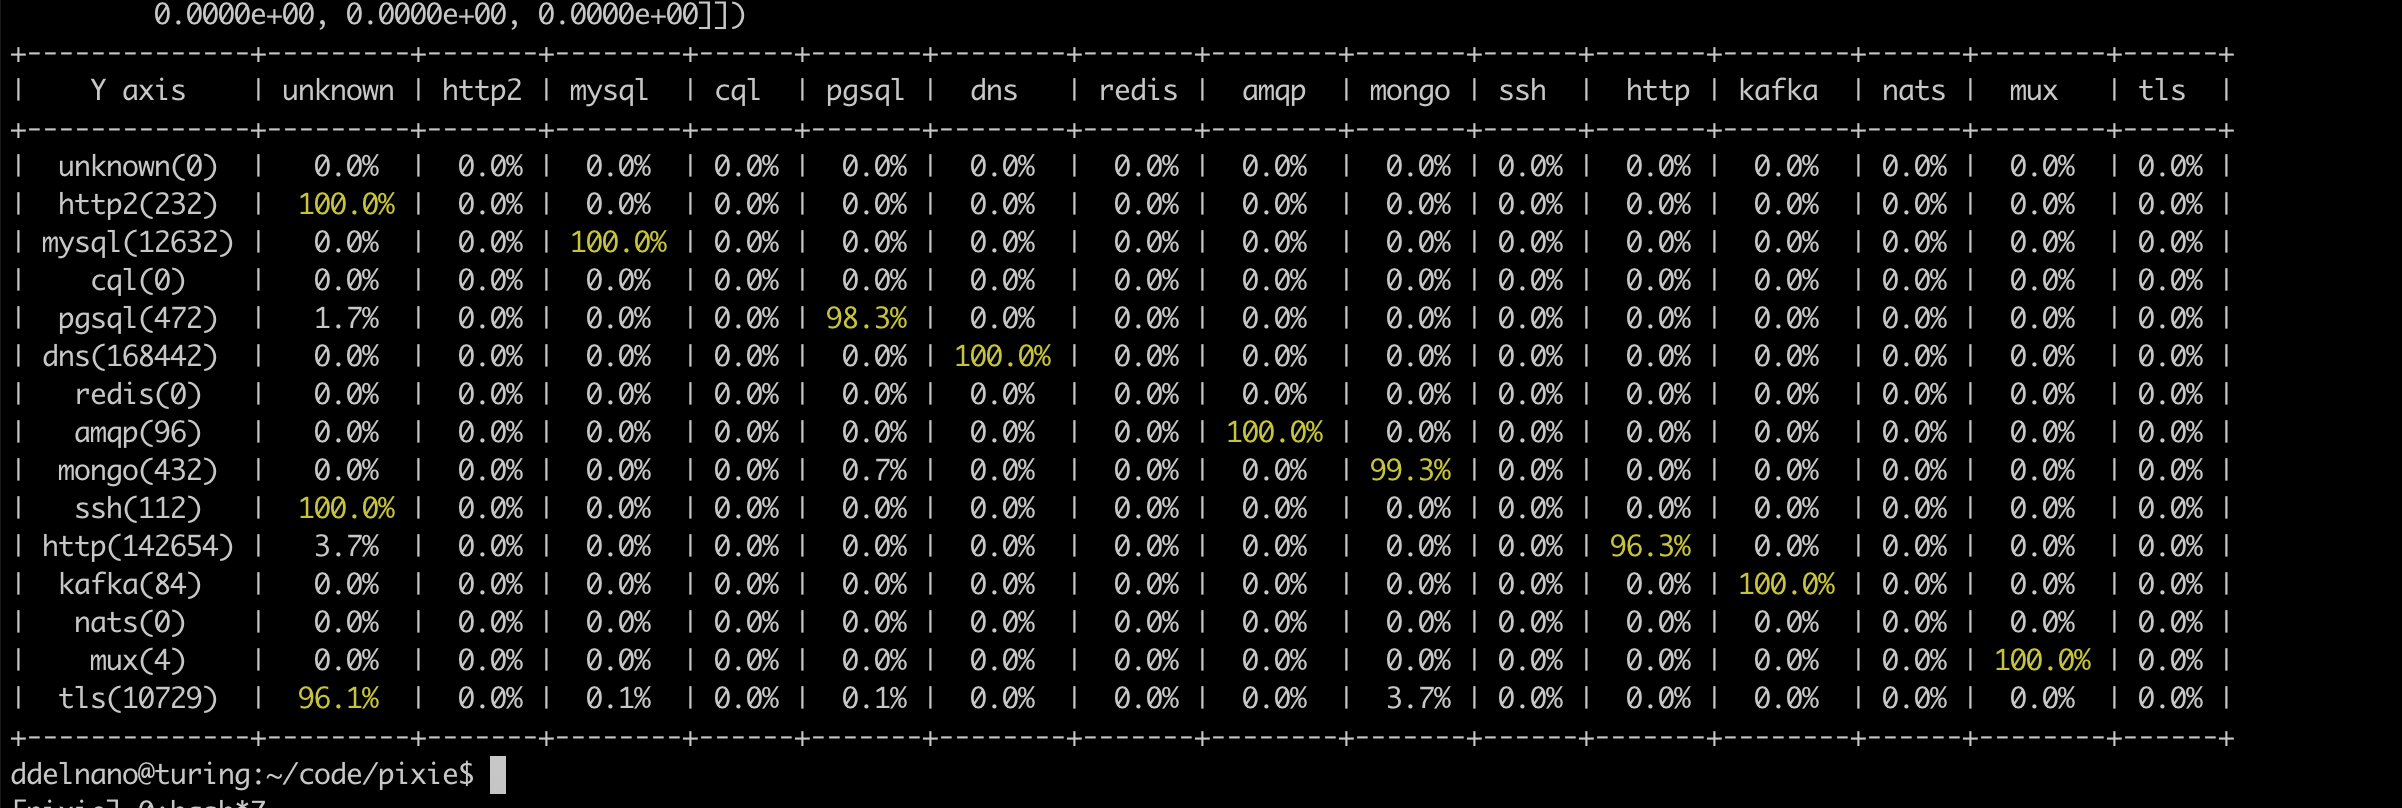
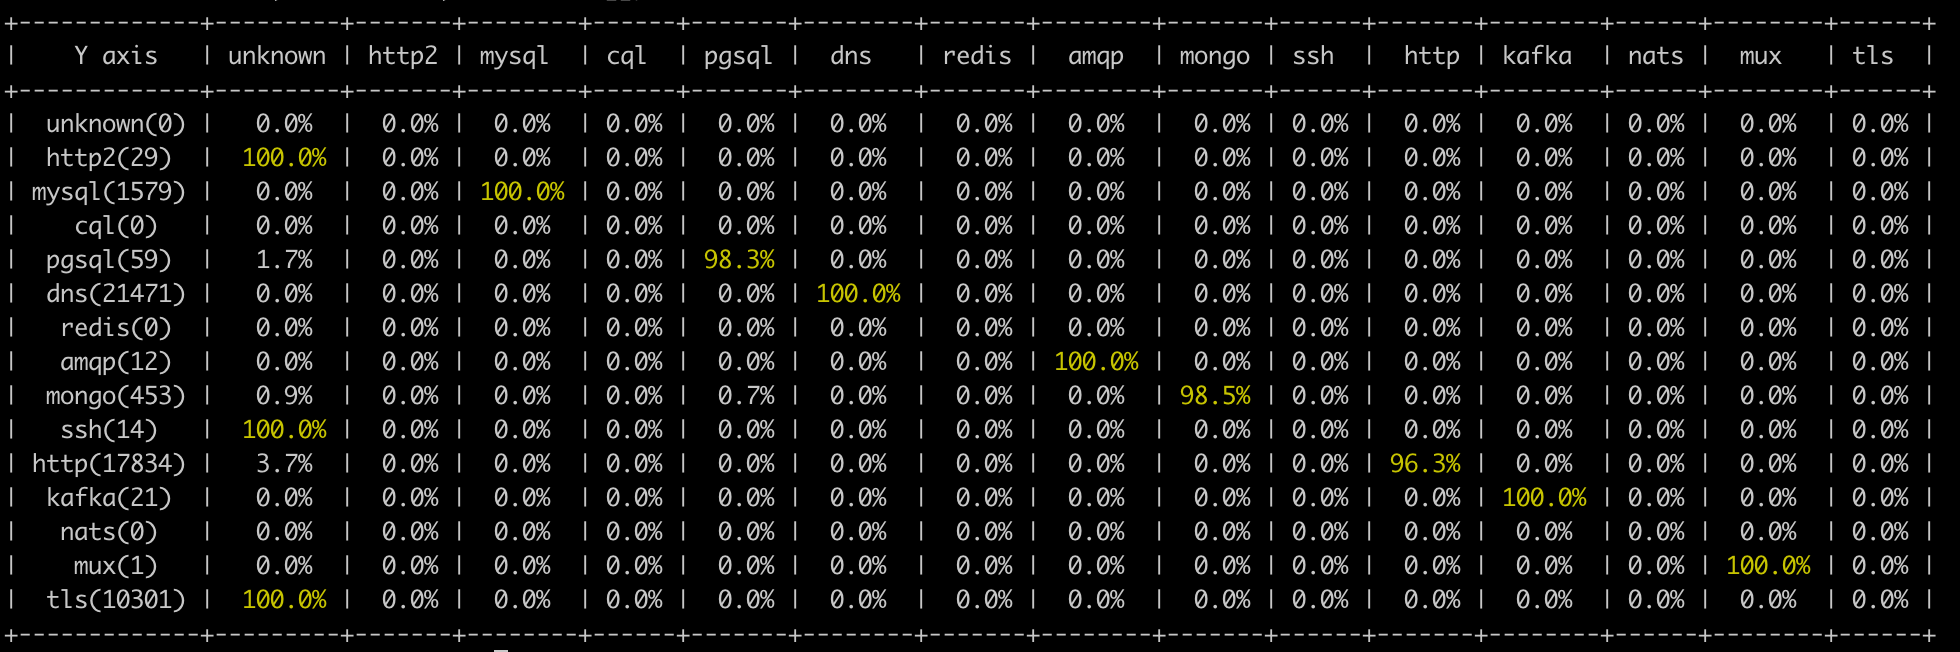
Update the protocol inference test infra with Mongo changes (#1758)
Summary: Previously, the TShark command in the `dataset_generation`
script was not able to decode Mongo pcap files and insert them to the
dataset for evaluation. This PR adds a flag to the TShark command to
decode traffic running through port 27017 as Mongo. The readme is also
updated to provide information about the bidirectional connection level
dataset.

**Updates to the confusion matrix**
In the previous image, the connections per protocol in the dataset seem
to have been duplicated leading to a large number of connections per
protocol. This may have been due to the `dataset_generation` script
appending data to the `.tsv` files each time it was ran even though the
underlying pcap file content/counts not being altered.

Running the `dataset_generation` script with empty `.tsv` files with the
same pcap files followed by the `eval` script resulted in a matrix
showing much fewer number of connections per protocol, suggesting that
there may have been duplication in the dataset previously.

The connection counts for each protocol in the older dataset seem to
have increased by a factor of 4x or 8x the count as the new dataset and
makes sense as to why the inference accuracy remained constant between
the old/new matrix.

The TLS connection count had dropped in the new matrix by the previous
number of Mongo connections (432) due to the new TShark command decoding
mongo connections. The Mongo captures may have been previously captured
[…]

Changed region(s): [[0.0, 0.0, 0.9959, 1.0]]

diff --git a/src/stirling/protocol_inference/dataset_generation.py b/src/stirling/protocol_inference/dataset_generation.py
@@ -86,7 +86,8 @@ def gen_tshark_cmd():
     -e tcp.srcport \
     -e udp.srcport \
     -e tcp.dstport \
-    -e udp.dstport"
+    -e udp.dstport \
+    -d tcp.port==27017,mongo"
 
     for protocol, spec in ProtocolParsingSpecs.items():
         field_name = spec["length_field"]

diff --git a/src/stirling/protocol_inference/README.md b/src/stirling/protocol_inference/README.md
@@ -62,9 +62,16 @@ which is defined uniquely by `src_addr`, `dst_addr`, `src_port`, and `dst_port`.
 a series of packets in a connection. The goal is to evaluate if a connection is eventually correctly
 classified over a period over time.
 
+#### bidirectional-connection-level dataset
+
+One row in the bidirectional-connection-level dataset contains a series of packets over time in a bidrectional connection.
+Packets on both directions of a connection are merged by their `src_addr`, `dst_addr`, `src_port`, and `dst_port` and grouped to
+make the direction agnostic. This enables protocol inference on a series of packets in a bidirectional connection. The goal is
+to evaluate if at least one side of a connection can be classified to infer the protocol of the entire bidirectional connection.
+
 ## Protocol Inference Eval
 
-There should be two tsv files `packet_dataset.tsv` and `conn_dataset.tsv` in the dataset folder.
+There should be three tsv files `packet_dataset.tsv`, `conn_dataset.tsv` and `bi_dir_conn_dataset.tsv` in the dataset folder.
 Right now, available models are {ruleset_basic, ruleset_basic_conn}.
 ```shell script
 bazel run src/stirling/protocol_inference:eval -- --dataset <packet_dataset.tsv> --num_workers 8
